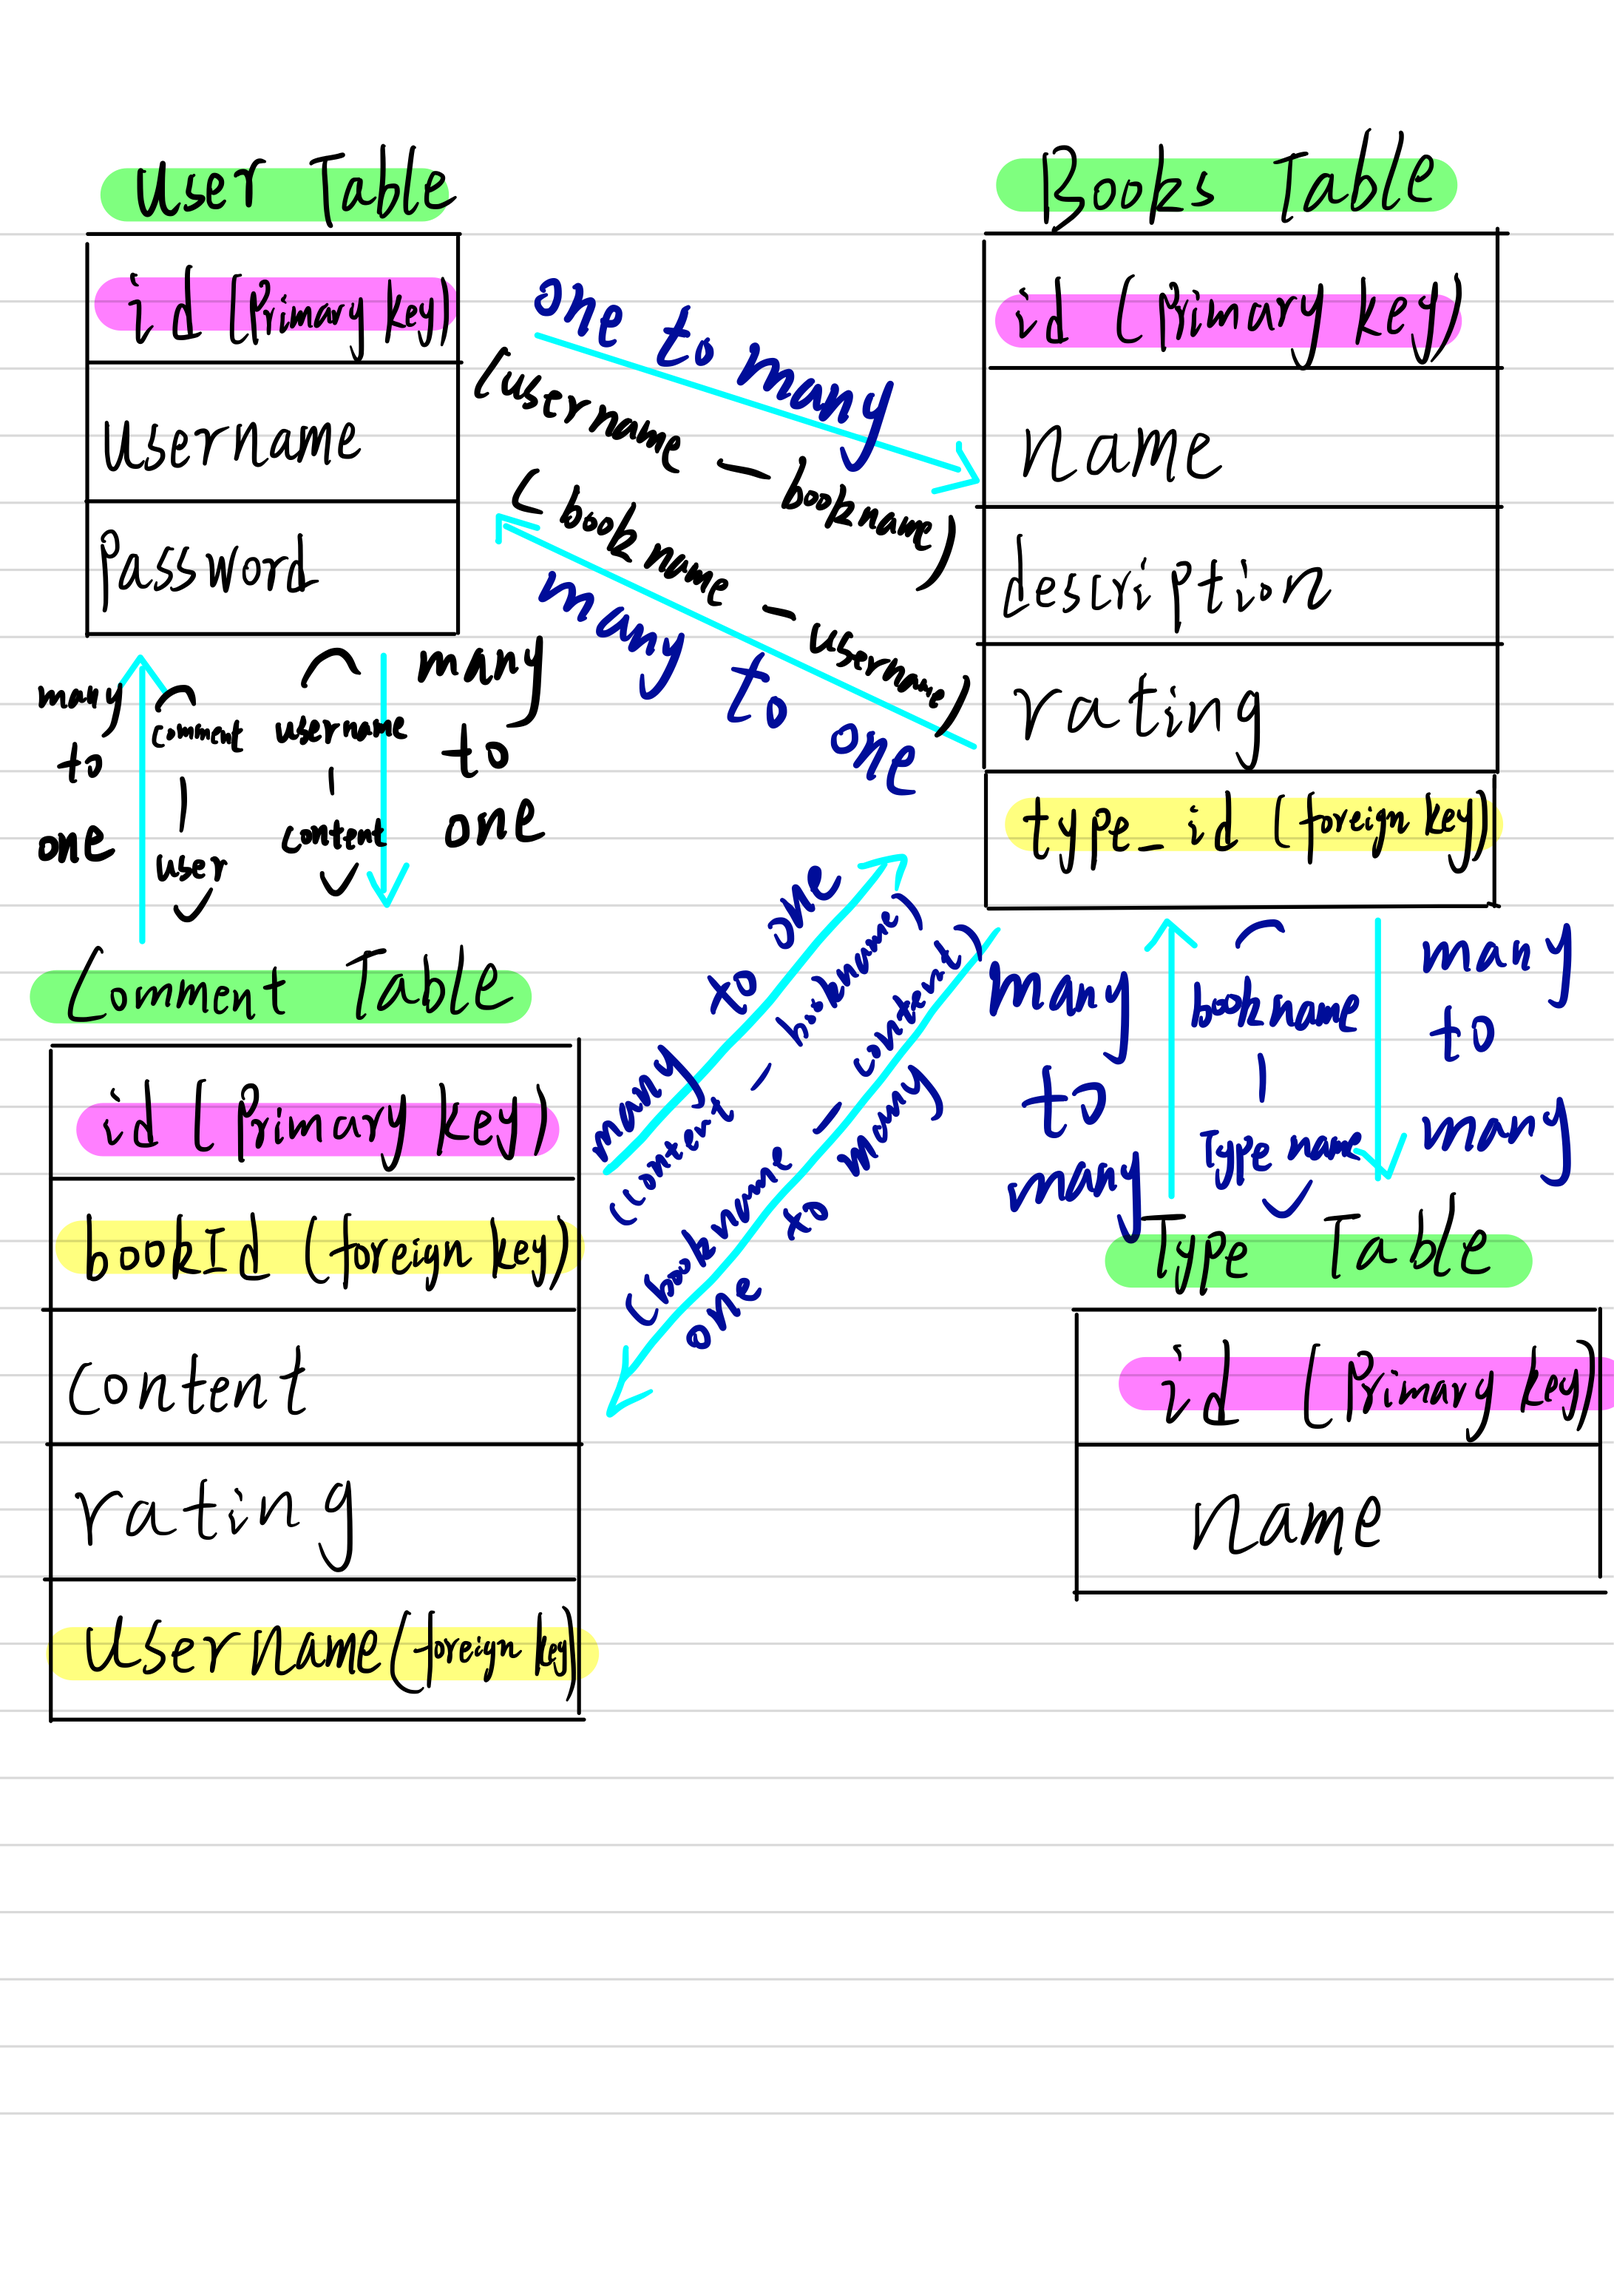
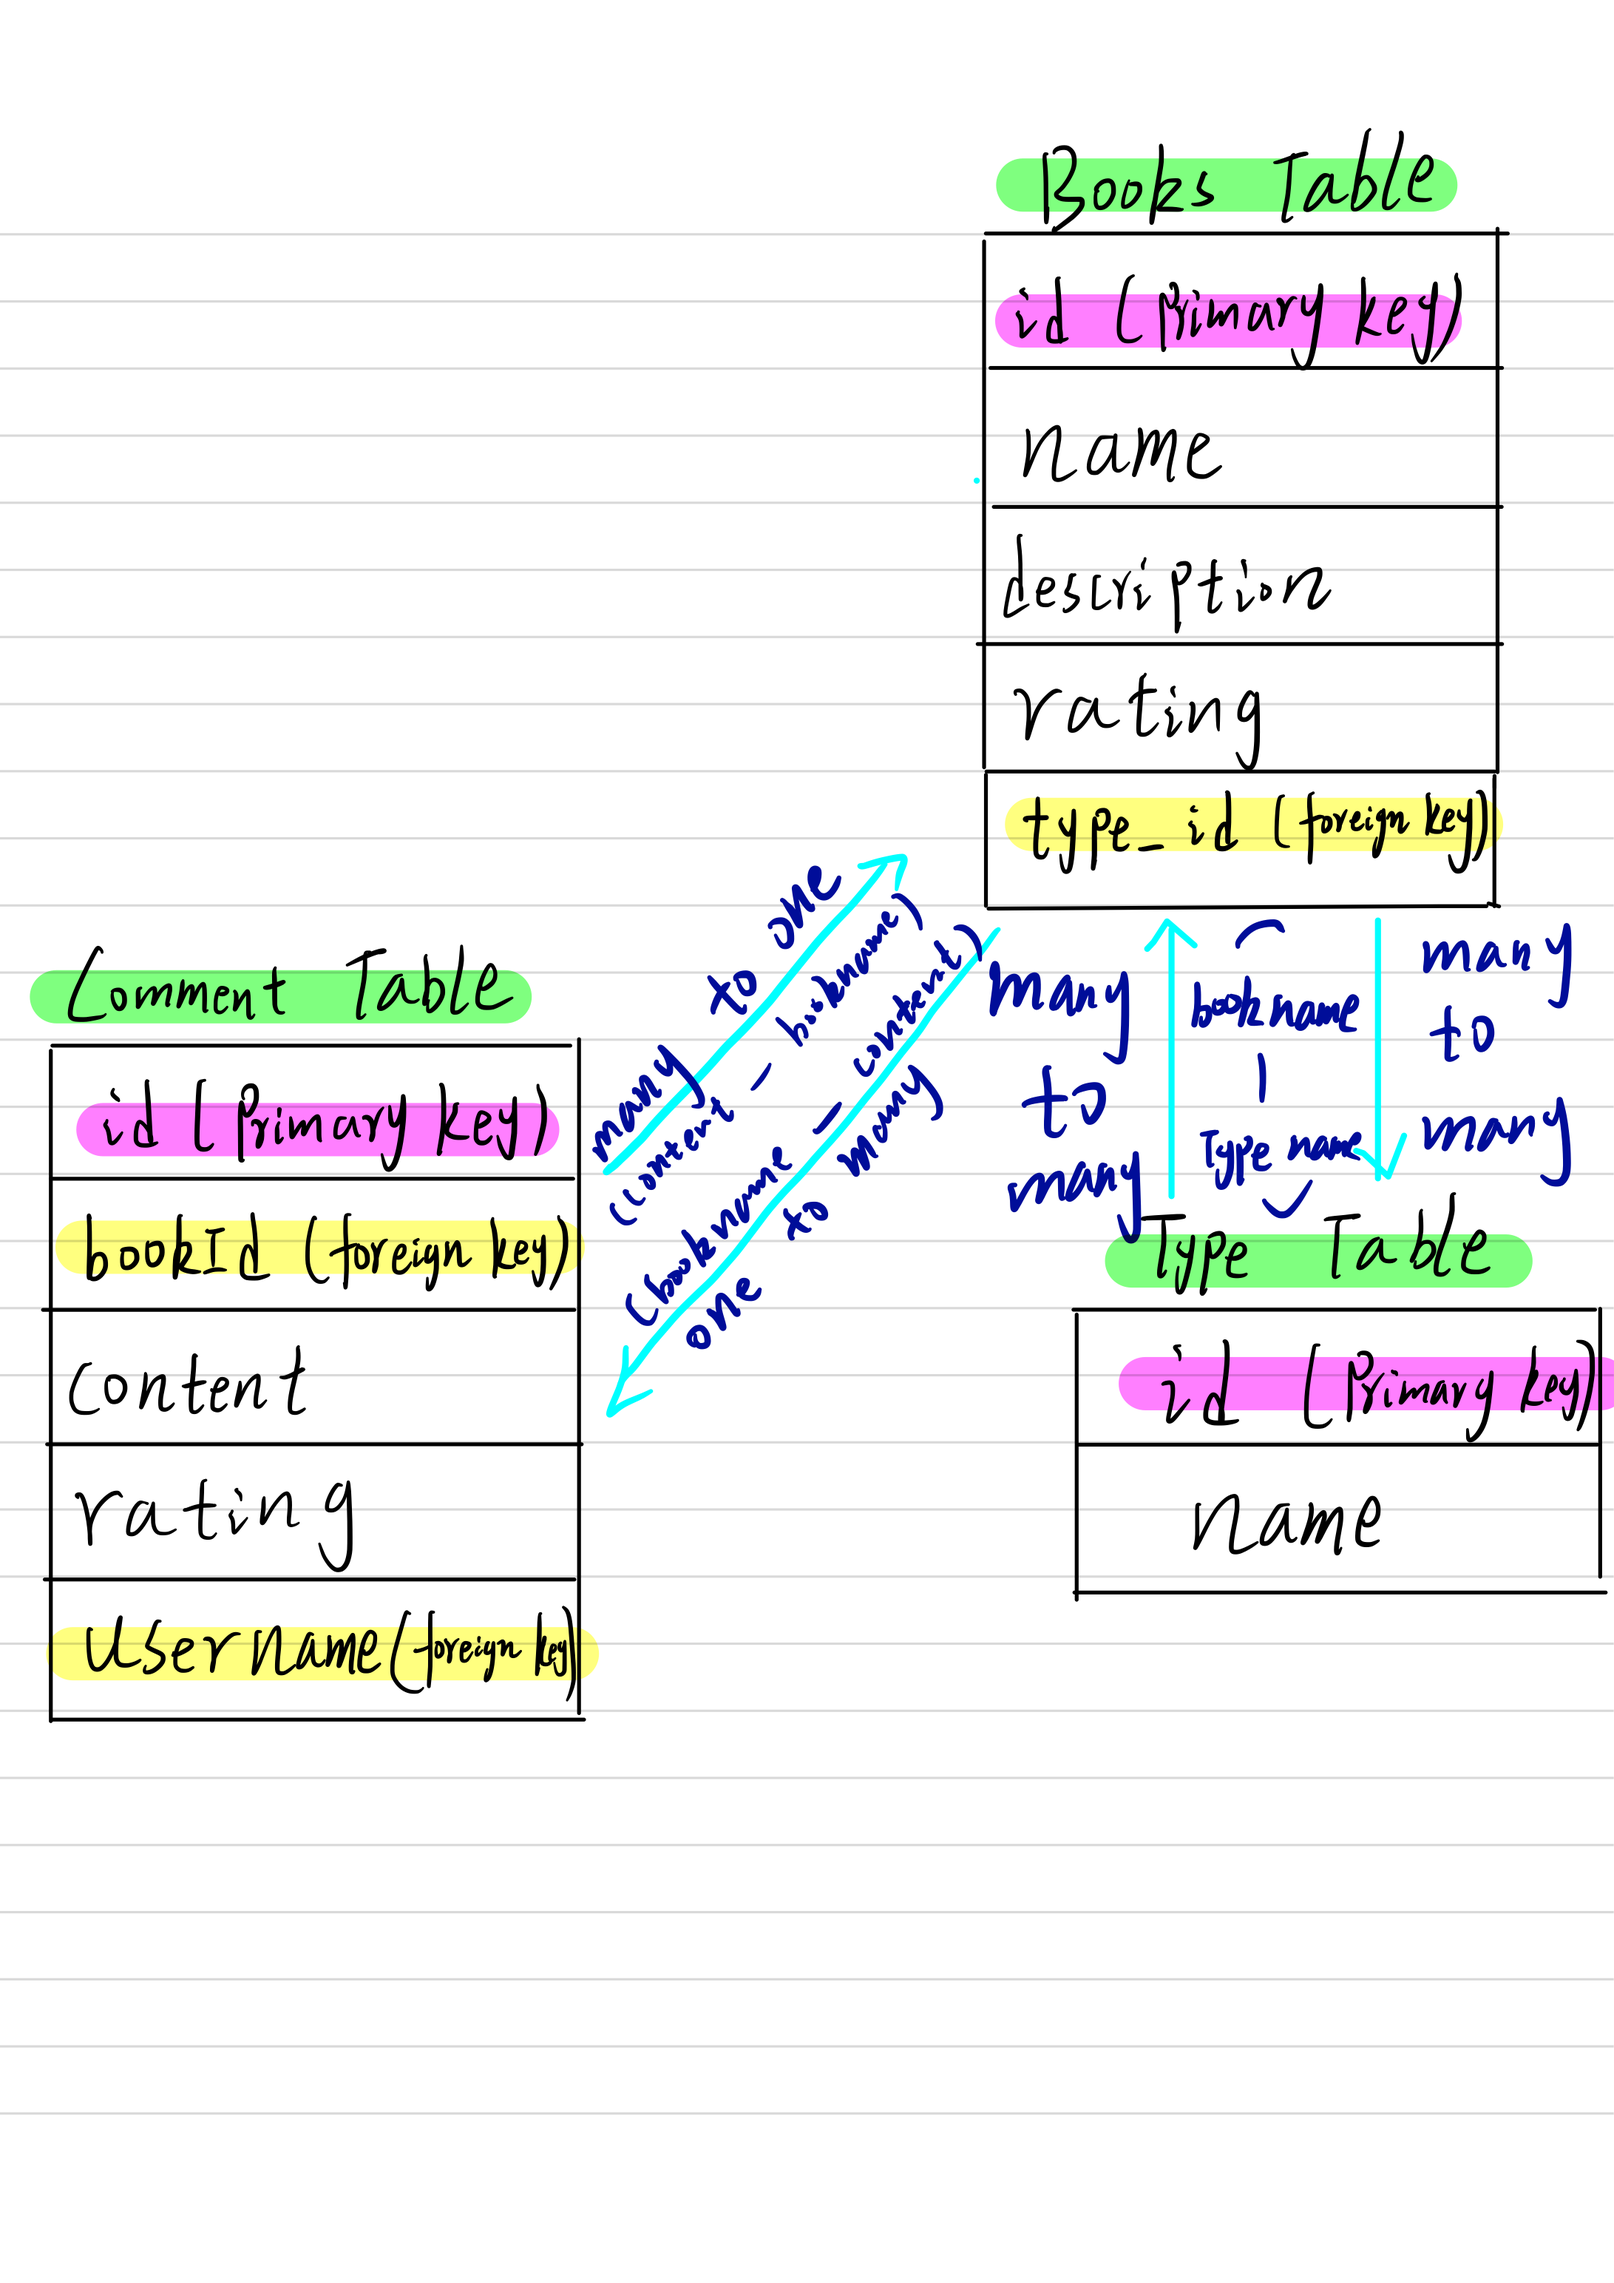
change diagram and README

Changed region(s): [[0.0311, 0.0622, 0.623, 0.3421], [0.0311, 0.1866, 0.3426, 0.4043]]

diff --git a/README.md b/README.md
@@ -8,7 +8,7 @@ Chenhao Xu
 
 ## Project Description
 
-My project is to develop a book management system that can help people to manage the books thev've read and make some comments on every book they've read. It can realize many functions related to book management such as adding and deleting books and comments and books' types。 And it also can show the recommendation books to the users as well.
+My project is to develop a book management system that can help people to manage the books thev've read and make some comments on every book they've read. It can realize many functions related to book management such as adding and deleting books and comments and books' types. And it also can show the recommendation books to the users as well.
 
 ## How to run
 
